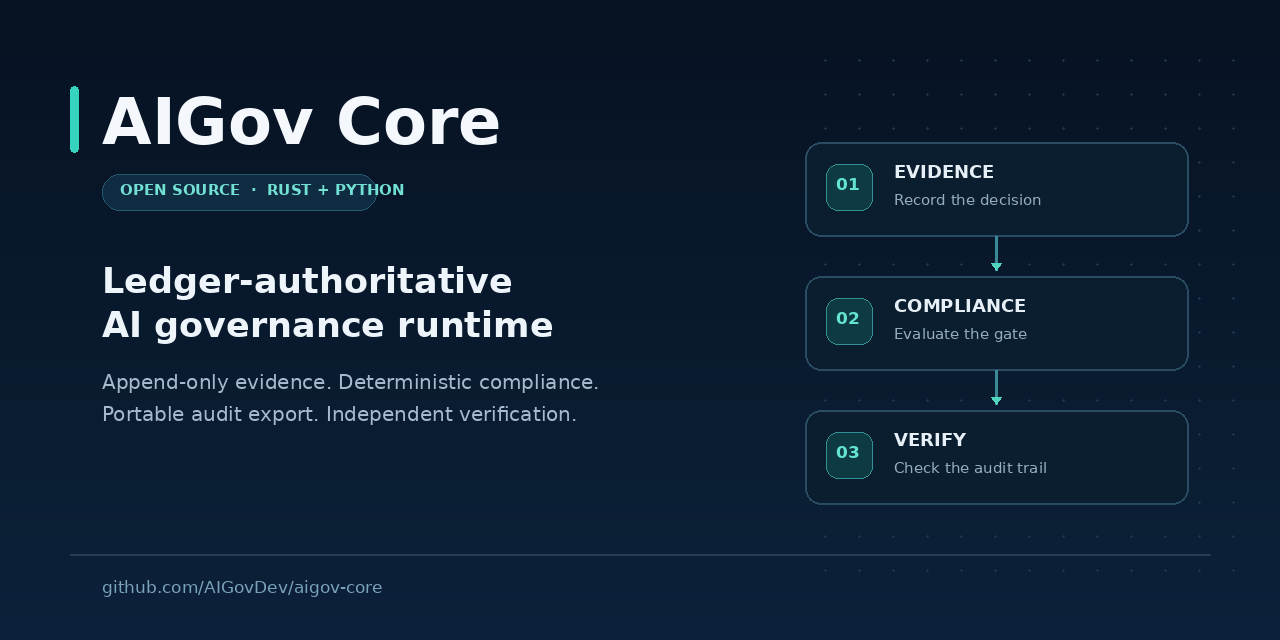
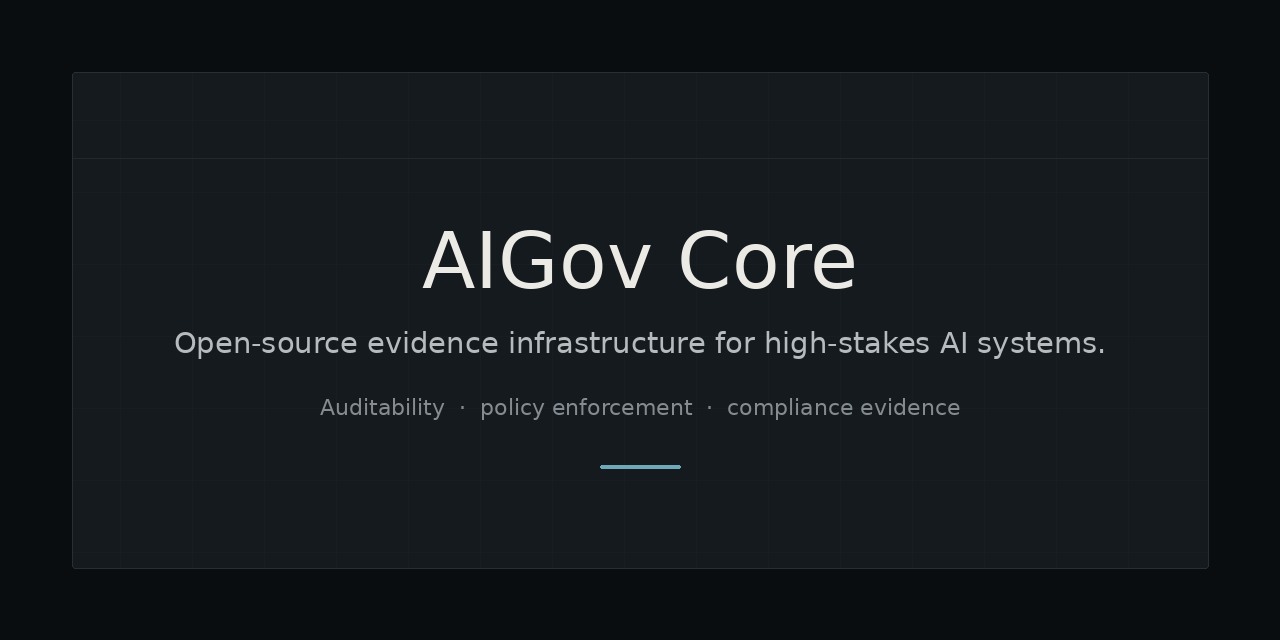
docs: align social preview with AIGov brand

Changed region(s): [[0.0, 0.125, 1.0, 1.0], [0.4688, 0.7188, 0.5312, 0.75], [0.9062, 0.2188, 0.9375, 0.25]]

diff --git a/docs/reports/social-preview-asset.md b/docs/reports/social-preview-asset.md
@@ -2,18 +2,20 @@
 
 ## Summary
 
-This change adds a prepared GitHub social preview image at `assets/social-preview.png`. It presents AIGov Core as an open-source ledger-authoritative governance runtime and illustrates the evidence, compliance, and verification steps already described by the project.
+This change adds a prepared GitHub social preview image at `assets/social-preview.png`. The artwork follows the visual identity of AIGov's existing public Open Graph card: restrained charcoal surfaces, warm ivory typography, muted neutral text, a low-contrast grid, and a small blue-gray accent.
 
-The asset is static repository artwork. It does not change runtime behavior, API contracts, security controls, package contents, or release behavior.
+It presents AIGov Core as open-source evidence infrastructure for high-stakes AI systems. The image is static repository artwork and does not change runtime behavior, API contracts, security controls, package contents, or release behavior.
 
 ## Evaluation gate
 
-The image was rendered locally and visually reviewed.
+The image was rendered locally, visually reviewed, and compared with the existing public AIGov share image and site palette.
 
 - PNG dimensions: 1280 × 640 pixels.
-- File size: 47,562 bytes (below GitHub's 1 MB limit).
-- Color mode: RGB, with a solid background.
-- Copy uses existing project terms: evidence, deterministic compliance, portable audit export, and verification.
+- File size: 27,572 bytes (below GitHub's 1 MB limit).
+- Color mode: RGB with a solid background.
+- Palette is aligned to published AIGov tokens: `#0a0d0f`, `#141a1e`, `#eceae4`, and the restrained `#6fa8b8` accent.
+- Copy reuses project positioning: evidence infrastructure, auditability, policy enforcement, and compliance evidence.
+- No process-flow diagram or new capability claim is depicted.
 
 GitHub recommends 1280 × 640 pixels for best social preview display and requires PNG, JPG, or GIF under 1 MB. This asset meets those requirements.
 
@@ -23,7 +25,7 @@ This PR prepares the image file only. A repository maintainer must review the ar
 
 ## Risk assessment
 
-The image makes no adoption, customer, certification, or benchmark claim. It contains no third-party logo, sensitive information, or customer data. The flow is a high-level presentation of repository capabilities, not a normative architecture or enforcement diagram.
+The image makes no adoption, customer, certification, or benchmark claim. It contains no third-party logo, sensitive information, or customer data. The artwork is a positioning card, not a normative architecture or enforcement diagram.
 
 ## Rollback plan
 
